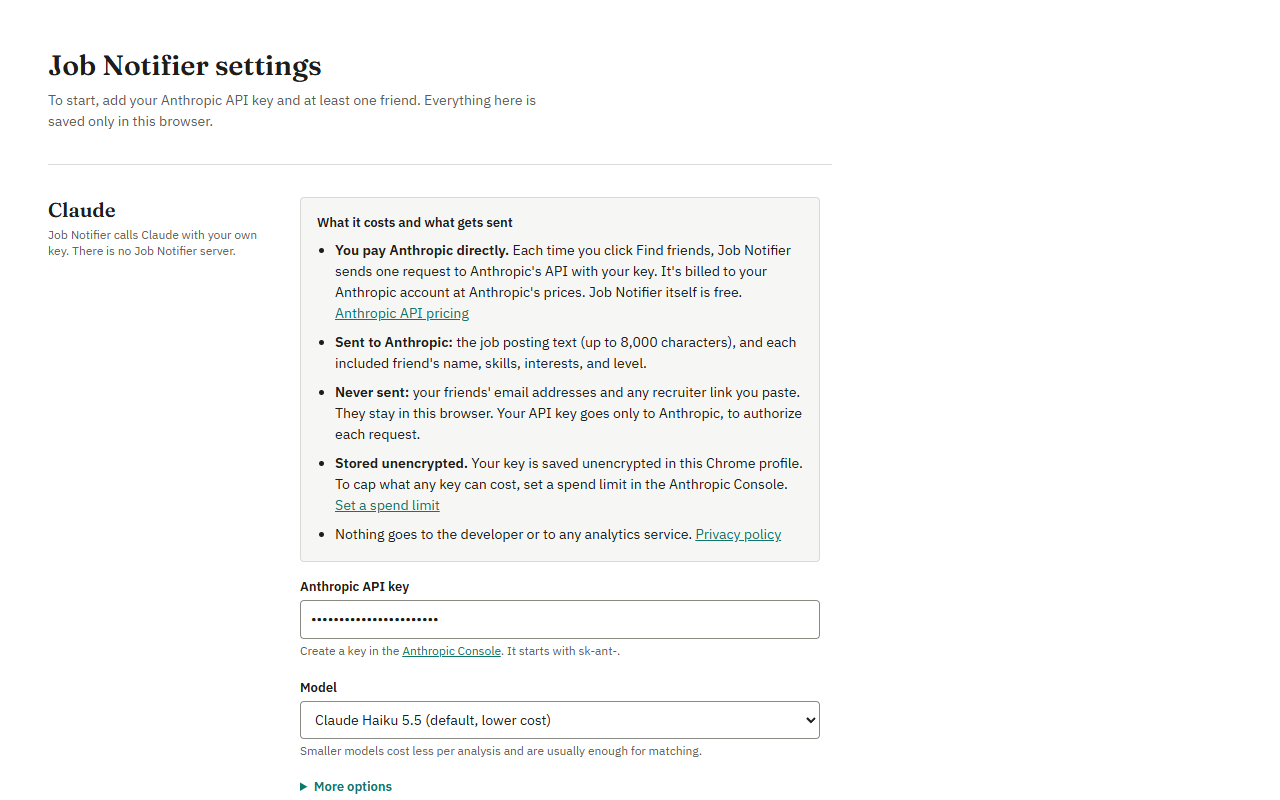
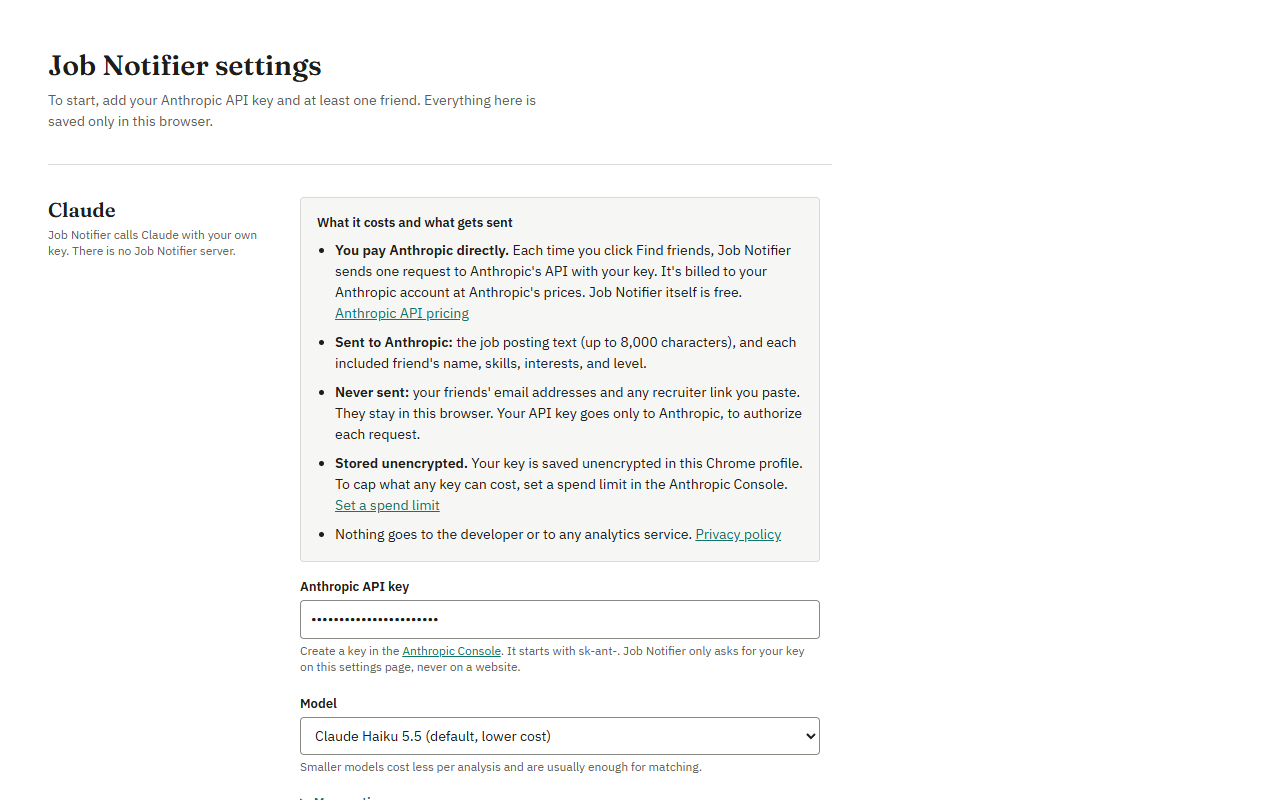
Refresh Chrome Web Store images and record round two reviews

Changed region(s): [[0.2188, 0.8125, 0.5625, 1.0], [0.5, 0.8125, 0.625, 0.8438]]

diff --git a/docs/assets/harness/render.js b/docs/assets/harness/render.js
@@ -118,6 +118,7 @@ async function main() {
     { page: harness('demo-confirmation.html', '#overlay'), state: 'results', out: asset('screenshot-1-overlay.png'), width: 1280, height: 800 },
     { page: harness('demo-posting.html', '#popup'), state: 'posting-found', out: asset('screenshot-2-popup.png'), width: 1280, height: 800 },
     { page: url('options.html'), state: 'settings', out: asset('screenshot-3-settings.png'), width: 1280, height: 800 },
+    { page: harness('demo-confirmation.html', '#overlay'), state: 'prompt', out: asset('screenshot-4-prompt.png'), width: 1280, height: 800 },
   ];
   for (const s of store) await shot(s);
   toRgb(store.map(s => s.out));

diff --git a/docs/specs/public-release.md b/docs/specs/public-release.md
@@ -820,3 +820,18 @@ All three .woff2 files start with the `wOF2` signature. Both license texts are S
 - Reviewer nit (threshold): the popup's no-matches text uses `threshold` from the worker's reply, the value that analysis used, and no longer keeps the one read on open (popup.js).
 - Files: options.html, options.css, options.js, ui.css, ui.js, popup.js. Nothing committed.
 - Test output: `npm test` runs 87 tests: 81 pass, 6 fail. All six are qa's round-1 worker and core tests waiting on engineer A (five-tab race x2, navigation clearing, hostname only, stripDelimiters timing, 32a dynamic ID); none are in my files. `npm run check --script-shell=bash` passes.
+
+**Team lead, resumed verification (2026-11-25):**
+- Engineer A's final handoff entry was absent. Verified the implementation checkpoint at `7214fd5` and ran `npm test` (87 passed), `npm run check --script-shell=bash` (passed with Git Bash on PATH in an approved execution), and `git diff --check` (passed). The history review found no production-shaped API key and confirmed the previously approved owner-email exception.
+- Rechecked the three configured Claude API model IDs against [Anthropic's model list](https://platform.claude.com/docs/en/models/overview) and image dimensions against [Chrome Web Store image guidance](https://developer.chrome.com/docs/webstore/images).
+- GitHub reports PR [#4](https://github.com/jbear05/job-notifier/pull/4) is open against `main`, with head `chore/claude-test-hook`. No release PR exists yet.
+
+**Engineer D, round 2 asset handoff:**
+- Added `docs/assets/screenshot-4-prompt.png` and refreshed `screenshot-3-settings.png` with the current disclosure and key help. The re-rendered overlay and promo tile were byte-identical. Retained the existing popup capture pending the user's whole-window Chrome screenshot.
+- The headless Chrome render ran in an approved execution after Crashpad was blocked inside the sandbox. The 22 review captures are in `dist/review/`. The four store screenshots are 1280×800 RGB PNGs and the promo tile is 440×280 RGB. The three criterion 21 tests passed. Next owner was designer.
+
+**Team lead, review round 2 on `7214fd5` and regenerated captures:**
+- Reviewer **FAIL**. An in-flight confirmation can recreate a prompt after full navigation. Prompt lookup bypasses queued deletion. Readiness is sent before settings return or the frame paints. The 80-second worker deadline exceeds Chrome's [30-second fetch response limit](https://developer.chrome.com/docs/extensions/develop/concepts/service-workers/lifecycle/#idle-shutdown), and its message says 90 seconds. Stored posting origins include scheme and port despite the hostname-only disclosure.
+- Designer **PASS** for the rendered UI and generated store assets. Verified the settings width cap, mobile layout, one first-run Add friend action, updated retention, and the prompt and results layouts. The real-Chrome toolbar capture and live keyboard/focus evidence remain pending under the original manual gate.
+- Security **FAIL**. Confirmed the premature ready signal and the prompt lookup ordering. `STOP` also leaves an already open frame on the page. The dynamic sender scheme plus matching browser-supplied extension ID passes code inspection. The focused suite passed 53/53.
+- Next owners: QA to run regression tests red, then engineer to fix and return for review. The clean-profile Chrome walkthrough must include an inert frame on initialization failure, removal and focus restoration when auto-detect stops, and confirmation cleanup versus same-document URL changes.
